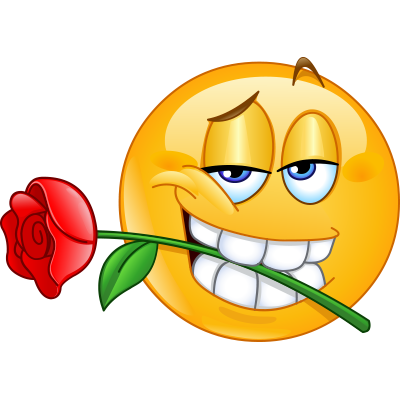
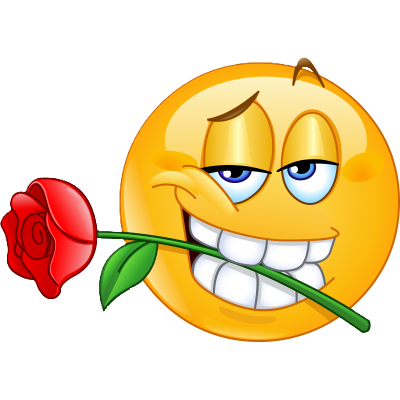
Adicionando botõtes e data

diff --git a/index.html b/index.html
@@ -5,6 +5,7 @@
     <meta name="viewport" content="width=device-width, initial-scale=1.0">
     <title>Encontrinho? 🌹</title>
     <link rel="stylesheet" href="styles.css">
+    <script src="script.js"></script>
 </head>
 <body>
     <header>
@@ -12,7 +13,26 @@
         <img src="./assets/emoji-rosa-na-boca.png" alt="Emoji de rosa na boca" width="100">
     </header>
     <main>
-        <h2></h2>
+        <ul>
+            <li>
+                <a href="">
+                    <button class="btn" id="yes">Sim</button>
+                </a>
+            </li>
+            <li>
+                <a href="">
+                    <button class="btn" id="no" onmouseover="changePos()">Não</button>
+                </a>
+            </li>
+            <li>
+                    <input type="datetime-local" name="Calendário" id="calendario">
+            </li>
+            <li>
+                <a href="" target="_blank">
+                    <button class="btn" type="button" >Marcar</button>
+                </a>
+            </li>
+        </ul>
     </main>
 
 </body>

diff --git a/styles.css b/styles.css
@@ -3,6 +3,12 @@ body {
     flex-direction: column;
     align-items: center;
     justify-content: center;
+    border: 20px solid black;
+    background-color: #121212;
+}
+
+h1 {
+    color: antiquewhite;
 }
 
 header {
@@ -10,4 +16,34 @@ header {
     flex-direction: row;
     align-items: center;
     justify-content: center;
+}
+
+main ul {
+    display: flex;
+    flex-direction: column;
+    align-items: center;
+    list-style: none;
+}
+
+main ul li {
+    padding: 10px;
+}
+
+input {
+    border-radius: 7px;
+}
+
+.btn {
+    width: 190px;
+    height: 35px;
+    border: 2px solid black;
+    border-radius: 10px;
+    background-color: red;
+    color: white;
+}
+
+.btn:hover{
+    background-color: rgb(255, 255, 255);
+    color: red;
+    cursor: pointer;
 }

diff --git a/script.js b/script.js
@@ -1,0 +1,10 @@
+const header = document.querySelector('header');
+const headerWidth = header.offsetWidth;
+const headerHeight = header.offsetHeight;
+const bodyHeight = document.querySelector('body').offsetHeight;
+
+function changePos() {
+    const nao = document.getElementById('no');
+    
+    
+}
